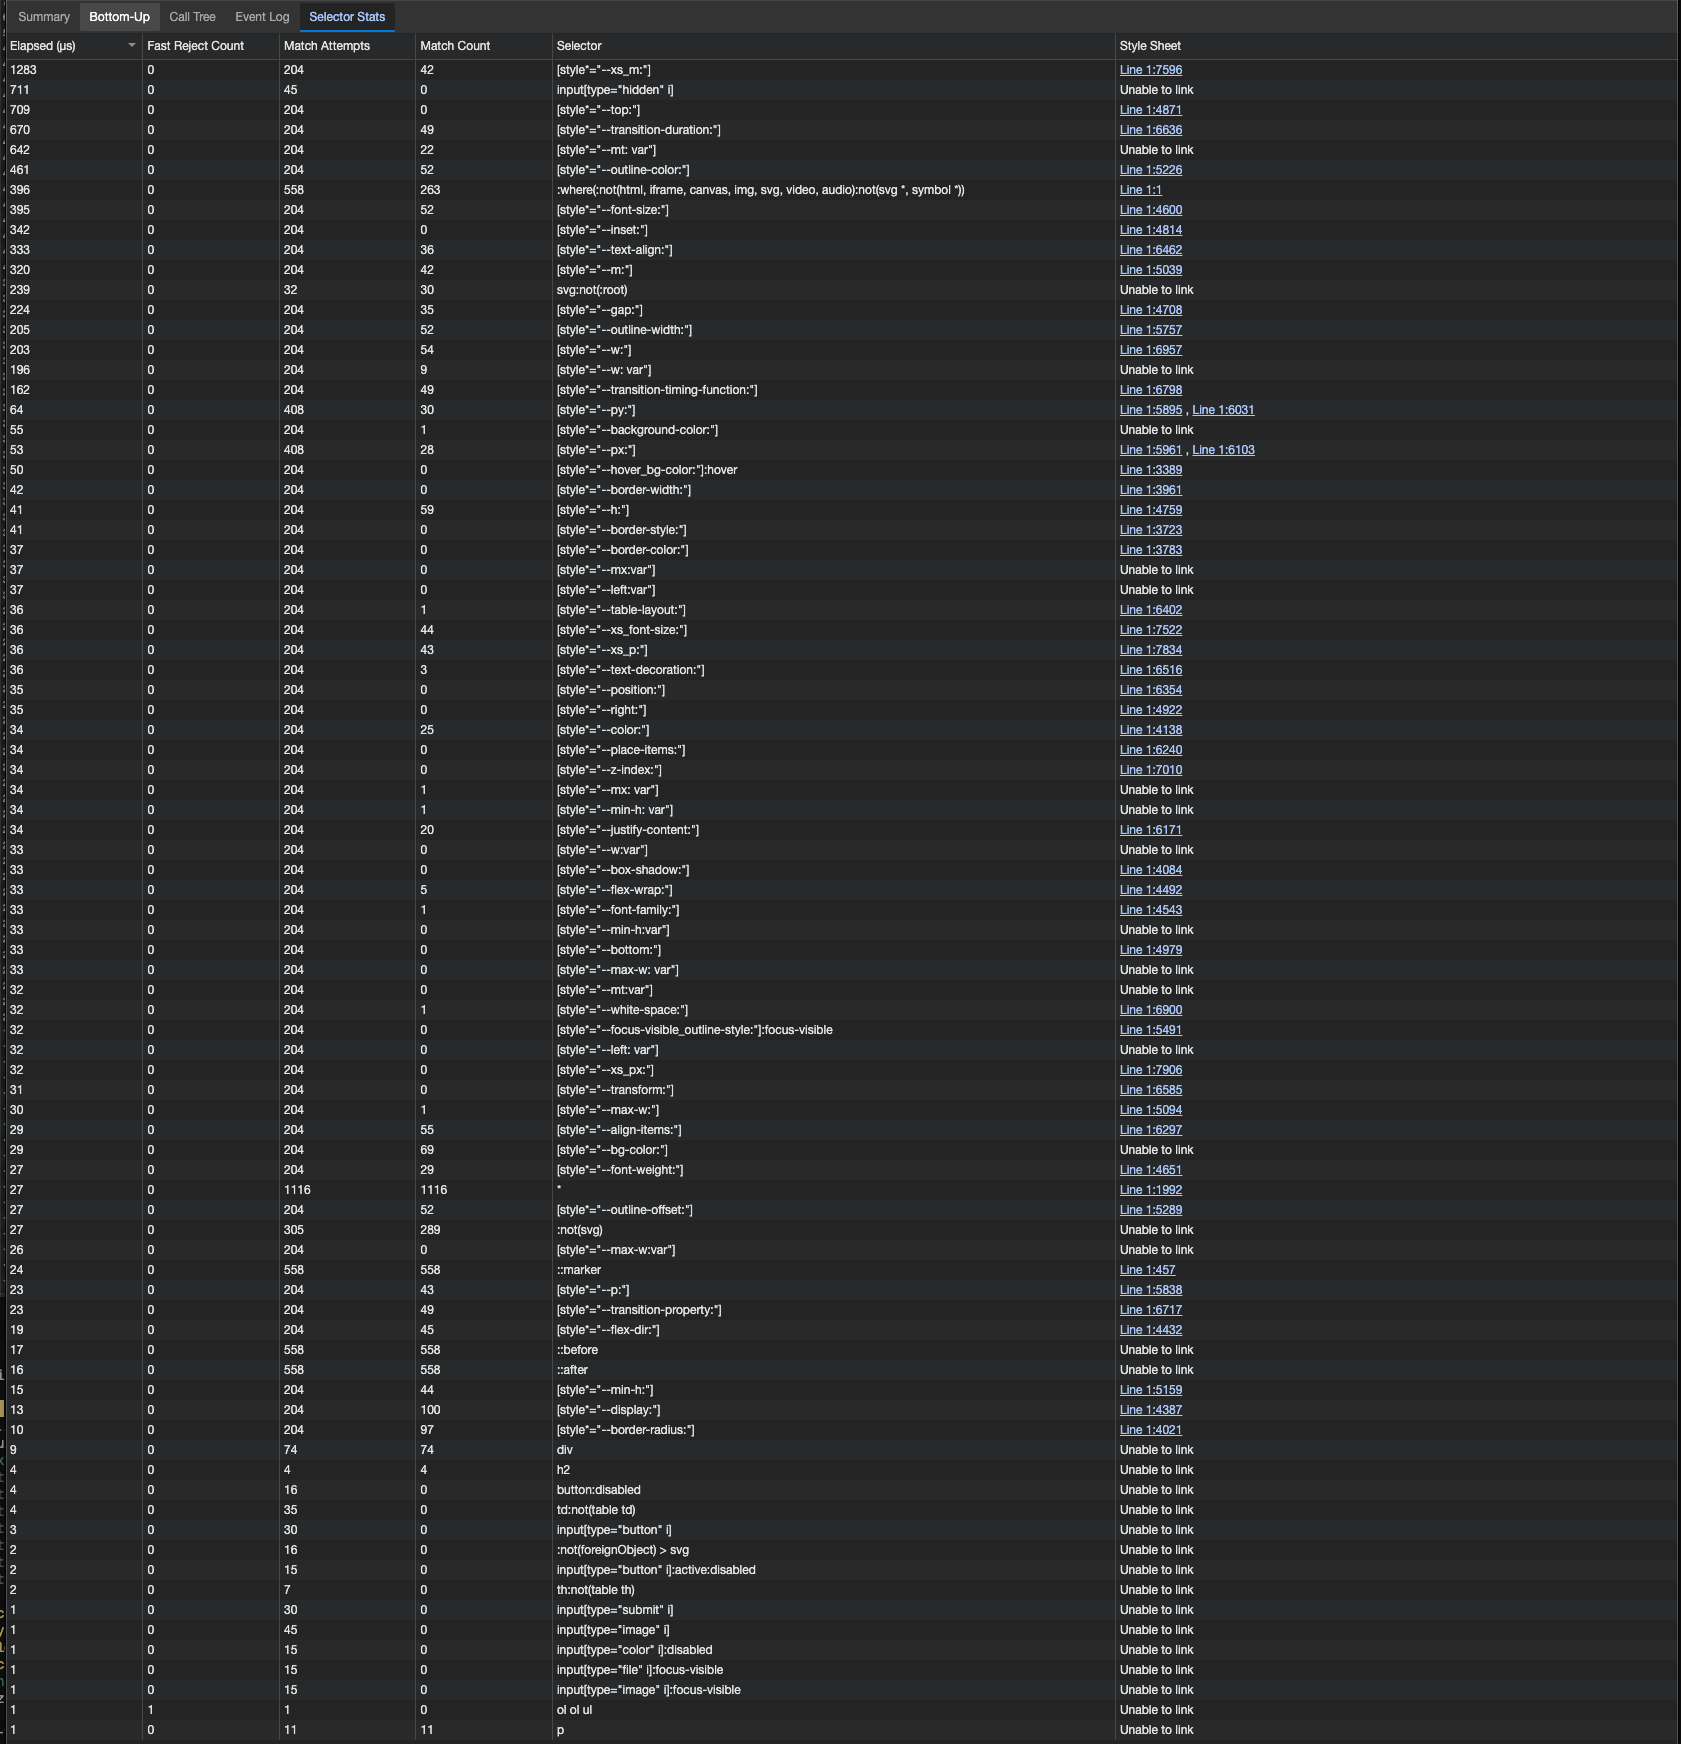
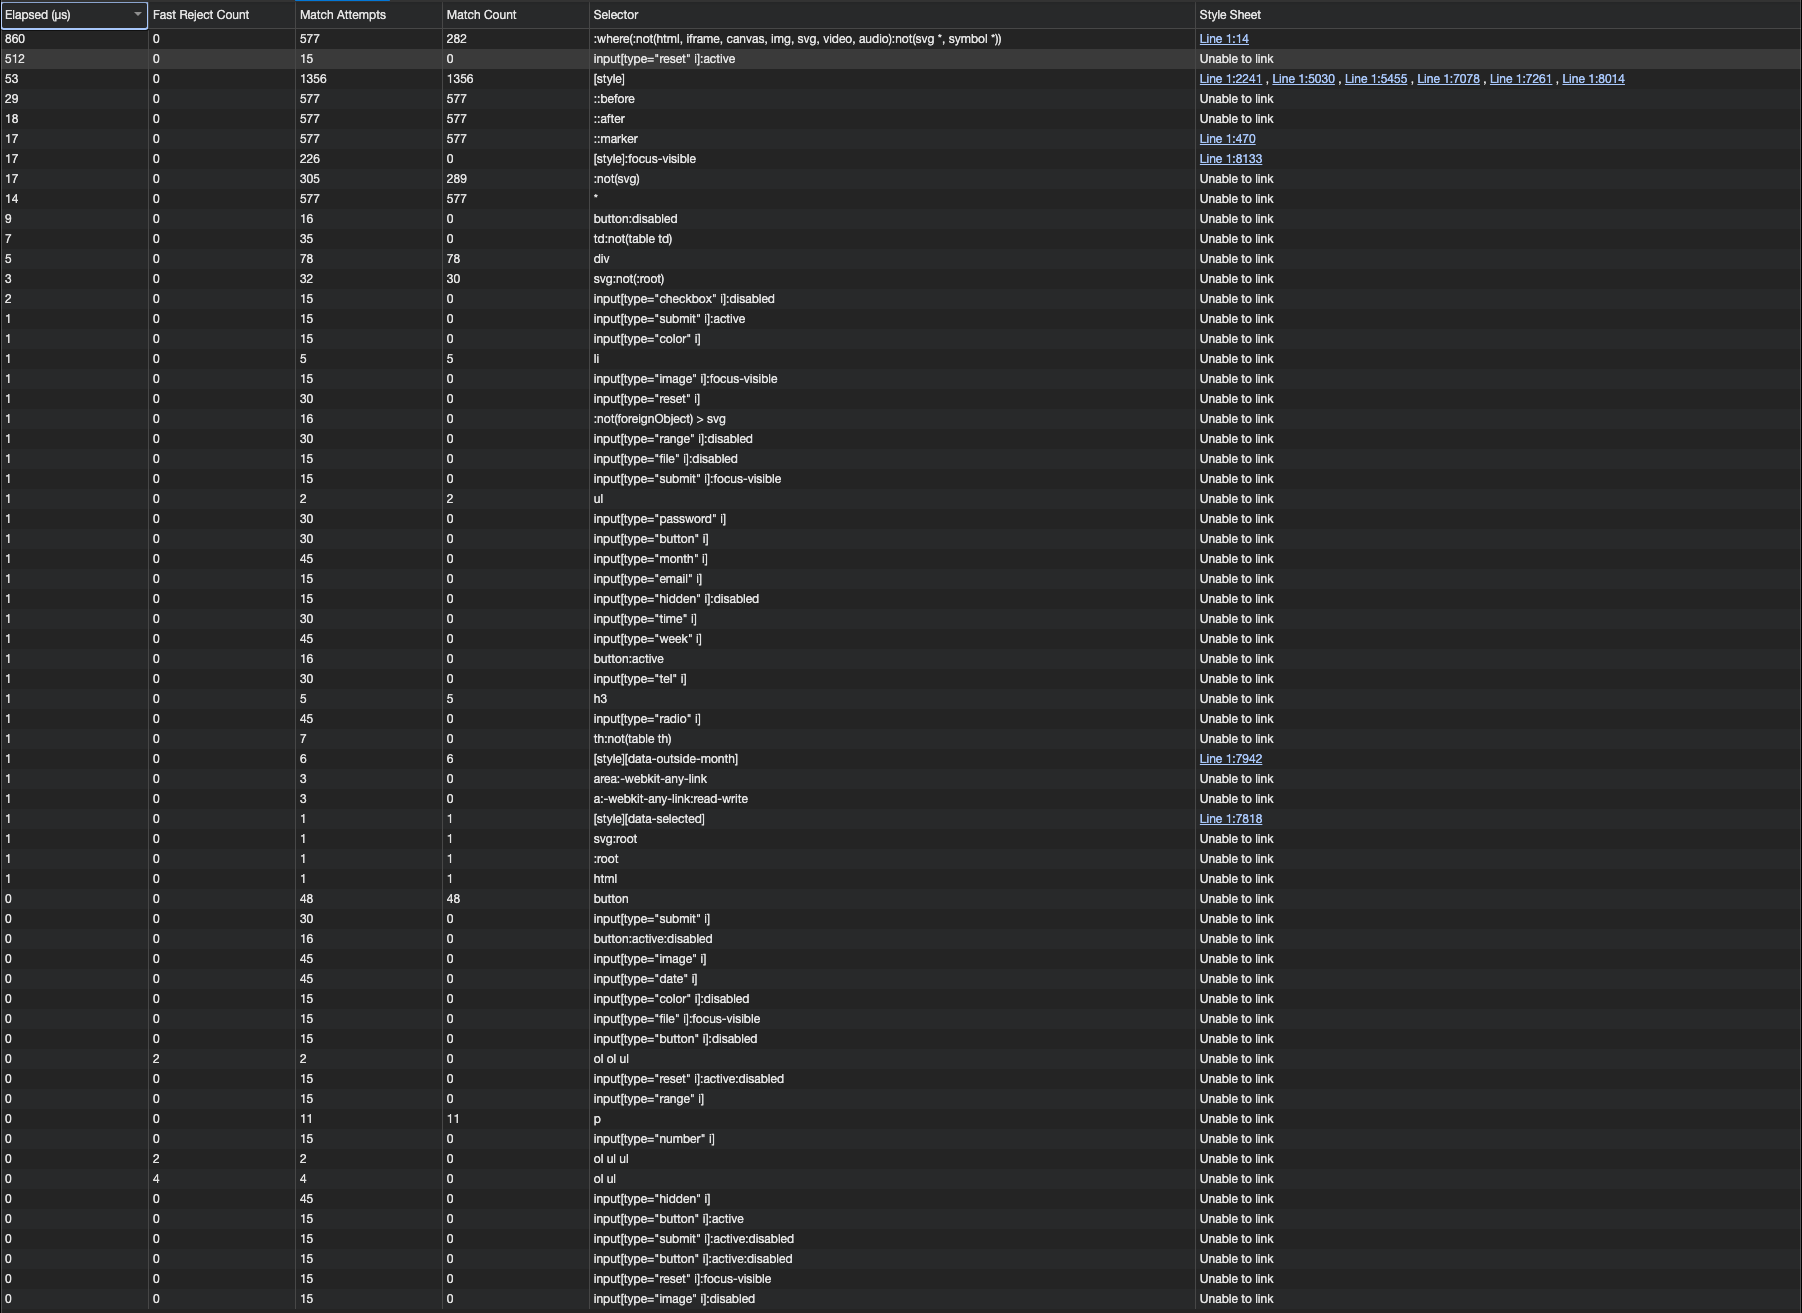
Update readme stuff to latest version

diff --git a/README.md b/README.md
@@ -9,17 +9,22 @@ This project is a playground app that I've built and styled with both [Tokenami]
 - [Tokenami version](https://planner-tokenami.vercel.app)
 - [TailwindCSS version](https://planner-tailwind.vercel.app)
 
+> [!IMPORTANT]  
+> Tokenami got some significant improvements since the first revision of this notes. I've updated it, feel free to check the history to see exact changes.
+
 ## What's Tokenami
 
-Tokenami is unconventional approach that allows direct styling with inline styles in a typesafe manner. In comparison to other similar approaches e.g. [CSSHooks](https://css-hooks.com) (which also allows direct styling with inline styles), Tokenami utilizes CSS variables and substring CSS selectors to deliver many powerful features, such as built-in theming, complex selectors and aliasing.
+Tokenami is unconventional approach that allows direct styling with inline styles in a typesafe manner. In comparison to other similar approaches e.g. [CSSHooks](https://css-hooks.com) (which also allows direct styling with inline styles), Tokenami utilizes CSS variables and cascade layers to deliver many powerful features, such as built-in theming, complex selectors and aliasing.
 
 It also comes with built-in utility for merging and composing styles. Moreover, it provides a TS plugin for even better TypeScript integration. I highly recommend giving a read about all of these libraries, especially in terms of trade-offs and design decisions.
 
 ## Why I've built this
 
-As mentioned before Tokenami is using unconventional approach with substring styles. However, substring selectors are (in)famously known for a worse performance than other, especially when compared to class selectors which are one of the most performant one.
+Tokenami started with utilizing unconventional approach with substring selectors. However, these are (in)famously known for a worse performance than other, especially when compared to class selectors which are one of the most performant one.
 
 Hence, I wanted to measure it, how much the performance tanks from using the substring selectors. Moreover, I've just wanted to play a bit with Tokenami to get a grasp whether it's something for me. A lot of thanks to Tokenami author [jjenzz](https://twitter.com/jjenzz) that helped a lot during my journey with Tokenami and was ultra fast with fixing bugs or brainstorming my improvement ideas!
+
+Since then a lot of experiments happened and even more unconventional approach emerged. Using `[style]` selector in combination of CSS layers allows you to basically recreate a standard CSS cascade in your own way. Moreover, the way the selectors like `hover` or `@media` rules work also got reworked . Now it uses space tricks with CSS variables, which got popularized by CSSHooks. It allows to e.g. switching all elements into focused state in the inspector.
 
 In a lot of points I'm focusing on a comparison to TailwindCSS. That's because that's my currently preferred styling approach which I wanted to somehow "benchmark" against the new kid on the block.
 
@@ -34,19 +39,21 @@ Styles are co-located with elements and don't need to be named, similarly to Tai
 Example of element styled by Tokenami from this project:
 
 ```tsx
+import { css } from "@tokenami/css";
+
 <header
-	style={{
+	style={css({
 		"--align-items": "center",
 		"--display": "flex",
 		"--justify-content": "space-between",
 		"--hover_background-color": "var(--color_red-900)",
-	}}
+	})}
 >
 	...
-</header>
+</header>;
 ```
 
-As you can see, standard properties are just prefixed with double `-` to make them CSS variables that Tokenami can use. Moreover, you can prefix them with selectors like `hover`.
+As you can see, standard properties are just prefixed with double `-` to make them CSS variables that Tokenami can use. Moreover, you can prefix them with selectors like `hover`. The other difference is the need to use the `css` utility, it allows few additional features and could be even more important in the future.
 
 ### Atomic stylesheet
 
@@ -57,14 +64,14 @@ Tbh, it's even more "atomic" then TailwindCSS - which generates CSS rules for ea
 Small part of stylesheet generated by Tokenami to give you a sense on how it's working:
 
 ```css
-[style*="--border-width\:"] {
-	border-width: var(--border-width);
-}
-[style*="--border-radius\:"] {
-	border-radius: var(--border-radius);
-}
-[style*="--box-shadow\:"] {
-	box-shadow: var(--box-shadow);
+@layer tk-short {
+	[style] {
+		border-style: var(--border-style, revert-layer);
+		border-color: var(--border-color, revert-layer);
+		border-width: var(--border-width, revert-layer);
+		border-radius: var(--border-radius, revert-layer);
+		gap: var(--gap, revert-layer);
+	}
 }
 ```
 
@@ -78,7 +85,7 @@ It also has a handy "grid" config, which allows you to specify some base value, 
 
 It's important to note that Tokenami doesn't come with a theme built-in though. From what I talked to author, there's a possibility of plugin system in the future which would allow to share and ship those. Then, a base theme could be distributed as a plugin.
 
-You can also configure other stuff, but overall the config is pretty straight-forward and minimal. One thing that I want to highlight is aliases. Let's say that writing "--background-color" each time can get tiring. You can easily alias it to e.g. `--bg-color` and use it across your project. You can see the specifics on how I configured Tokenami in this project in `.tokenami/tokenami.config.ts`
+You can also configure other stuff, but overall the config is pretty straight-forward and minimal. One thing that I want to highlight is aliases. Let's say that writing "--background-color" each time can get tiring. You can easily alias it to e.g. `--bg-color` and use it across your project. You can see the specifics on how I configured Tokenami in this project in `.tokenami/tokenami.config.ts`.
 
 ### Easy and seamless integration into your project
 
@@ -93,11 +100,13 @@ As you already could see in few of these examples, there's no specific functions
 Firstly, you can always move styles out of inline `style` attribute and reuse them across different elements:
 
 ```tsx
-const styles = {
+import { css } from "@tokenami/css";
+
+const styles = css({
 	"--color": "var(--color_red-900)",
 	"--background-color": "var(--color_red-100)",
 	"--padding": 4,
-};
+});
 
 const element1 = <div style={styles} />;
 const element2 = <div style={styles} />;
@@ -106,6 +115,8 @@ const element2 = <div style={styles} />;
 Even better, you can extract part of styles or compose them together:
 
 ```tsx
+import { css } from "@tokenami/css";
+
 const styles = {
 	"--color": "var(--color_red-900)",
 	"--background-color": "var(--color_red-100)",
@@ -119,35 +130,37 @@ const commonFocusStyles = {
 	"--outline-width": 0.5,
 };
 
-const element1 = <div style={{ ...styles, ...commonFocusStyles }} />;
+const element1 = <div style={css(styles, commonFocusStyles)} />;
 
 const { "--padding": _, ...baseStylesWithoutPadding } = styles;
 
-const element2 = <div style={{ ...baseStylesWithoutPadding, ...commonFocusStyles }} />;
+const element2 = <div style={css({ ...baseStylesWithoutPadding, ...commonFocusStyles })} />;
 ```
 
-Above pattern works fine with not overlapping set of styles, however there're some cases where we want to get predictable merging. That's when basically only TokenamiCSS specific API comes in:
+Moreover it's also capable of merging conflicting styles:
 
 ```tsx
 import { css } from "@tokenami/css";
 
-const styles = css({
+const styles = {
 	"--color": "var(--color_red-900)",
 	"--background-color": "var(--color_red-100)",
 	"--padding-left": 4,
-});
+};
 
 const conflictingStyles = {
 	"--padding": 8,
 };
 
-const element = <div style={styles(null, conflictingStyles)} />;
+const element = <div style={css(styles, conflictingStyles)} />;
 ```
 
-That looks sweet! It even properly knows that `--padding` is shorthand that sets `--padding-left` and will overwrite it. You can be only wondering "Why the null in `styles` invocation? 🤔" That's because the `css` function also acts as a tool for managing variants! Let's look at following example from my codebase (slightly simplified):
+That looks sweet! It even properly knows that `--padding` is shorthand that sets `--padding-left` and will overwrite it. Moreover the same `css` function also acts as a tool for managing variants! Let's look at following example from my codebase (slightly simplified):
 
 ```tsx
-const button = css(
+import { css } from "@tokenami/css";
+
+const button = css.compose(
 	{
 		"--border-radius": "var(--radii_base)",
 		"--color": "var(--color_white)",
@@ -185,14 +198,6 @@ const additionalStylesThatTakesPriority = {
 const exampleButtonMuted = <button style={button({ variant: "muted" }, additionalStylesThatTakesPriority)} />;
 ```
 
-One small note - because of this, the `css` base function can sometimes be cumbersome if you're using it only for merging (need to pass null all the time). It's something that the author is looking into solving, I've built a small utility in the meantime, which got a seal of approval:
-
-```tsx
-const emptyCss = css({});
-
-const mergeCss = (...styles: Array<TokenamiProperties | false | undefined>) => emptyCss(null, ...styles);
-```
-
 As you can see, the API that Tokenami provides is pretty minimal. However, it allows to use the flexibility of JavaScript to create super powerful patterns and compose styles in a way that's unmatched by TailwindCSS.
 
 ### TypeScript as a first-class citizen
@@ -227,7 +232,7 @@ Okay, but the sun isn't always shining 😄 There must be some tradeoffs for all
 
 ### Performance
 
-When I mean "performance" it relates to a few of things. Firstly, as I mentioned before, substring style selectors aren't the most performant ones. Are they slow? Are they worse than X? That all depends on what you want to compare them against. My contender was TailwindCSS and Tokenami is slower, you can't argue that. I don't want to say "it's fast enough" or "it's much slower", that probably all depends on your needs. I've put a few metrics in later part of this so you can make your own thoughts. It's also important to note, that my contender is kinda good in this category. If you're using something like runtime CSS-in-JS solution, it could be possible that Tokenami is much faster. As I mentioned before - if that's your concern, look at below metrics and make your own thoughts, I won't decide for you 😄
+When I mean "performance" it relates to a few of things. Firstly, the CSS selectors performance. Tokenami already improved a lot in this case since release, substring selectors got replaced by CSS layers and `[style]` selector. My contender is TailwindCSS and Tokenami is slower, you can't argue that. I don't want to say "it's fast enough" or "it's much slower", that probably all depends on your needs. I've put a few metrics in later part of this so you can make your own thoughts. It's also important to note, that my contender is kinda good in this category. If you're using something like runtime CSS-in-JS solution, it could be possible that Tokenami is much faster. As I mentioned before - if that's your concern, look at below metrics and make your own thoughts, I won't decide for you 😄
 
 It's also important to note that if you're using stuff like `cva` and `tw-merge` extensively in runtime, the performance hit from those could mitigate some of the gains from using TailwindCSS. Built-in `css` in Tokenami is much faster, because it doesn't need to utilize RegExes for deduplication and merging.
 
@@ -264,7 +269,7 @@ Okay, let's go to the part that's probably more spicey 😄 I'm not taking concl
 
 |                 | Tokenami | Tokenami gzip | TailwindCSS | TailwindCSS gzip |
 | --------------- | -------- | ------------- | ----------- | ---------------- |
-| Stylesheet size | 8.06 kB  | 2.22 kB       | 8.58 kB     | 2.73 kB          |
+| Stylesheet size | 8.17 kB  | 2.30 kB       | 8.58 kB     | 2.73 kB          |
 
 As you can see, Tokenami has smaller stylesheet size. The gap will probably grow with the size of the app (as mentioned before, Tokenami generates rules for every property, while TailwindCSS for every property + value combination). However, the difference shouldn't skyrocket or anything - both solutions use atomic rules.
 
@@ -272,16 +277,19 @@ As you can see, Tokenami has smaller stylesheet size. The gap will probably grow
 | ---------- | --------- | ------------- | ----------- | ---------------- |
 | JS(X) size | 540.33 kB | 169.85 kB     | 542.96 kB   | 171.79 kB        |
 
-This app is an SPA so HTML size is basically included in this one as JSX. This is influenced by styling solution in two ways - firstly, how terse are styles declarations, secondly - companion libraries. I'm usually using TailwindCSS in conjunction with CVA and tw-merge, Tokenami comes with a one built-in, so these are included here. Generally even if it looks like Tokenami is in the lead - it's important to note that that size is spread out differently. CVA + tw-merge for TailwindCSS is much bigger than Tokenami `css` utility. On the other hand, the styles declarations with Tokenami are bigger.
+> [!WARNING]  
+> This metric isn't up to date, but should reflect the difference anyway. I'll update it eventually.
+
+This app is an SPA so HTML size is basically included in this one as JSX. Don't be afraid by the big numbers, that's mainly caused by some hefty libraries that I choose in this project (unrelated to styling), both Tokenami and Tailwind doesn't incur too big JS cost. However, this is influenced by styling solution in two ways - firstly, how terse are styles declarations, secondly - companion libraries. I'm usually using TailwindCSS in conjunction with CVA and tw-merge, Tokenami comes with a one built-in, so these are included here. Generally even if it looks like Tokenami is in the lead - it's important to note that that size is spread out differently. CVA + tw-merge for TailwindCSS is much bigger than Tokenami `css` utility. On the other hand, the styles declarations with Tokenami are bigger.
 
 ### Timings **(paint + rendering only)**
 
 |                            | Tokenami | TailwindCSS |
 | -------------------------- | -------- | ----------- |
-| Interaction                | 22ms     | 24ms        |
-| Interaction, 4x slowdown   | 72ms     | 79ms        |
-| Initial Paint              | 43ms     | 20ms        |
-| Initial Paint, 4x slowdown | 170ms    | 92ms        |
+| Interaction                | 17ms     | 24ms        |
+| Interaction, 4x slowdown   | 69ms     | 79ms        |
+| Initial Paint              | 31ms     | 20ms        |
+| Initial Paint, 4x slowdown | 131ms    | 92ms        |
 
 As you can see, interactions timing are pretty similar, even slightly favouring Tokenami in my measurements. However, Initial Paint timings slumps a bit. "Interaction" is changing date on the calendar inside of the app and measuring how long does it take to update, it doesn't include the hovering part to mitigate human impact.
 
@@ -303,8 +311,8 @@ I've sorted them by how fast are they and in case of TailwindCSS not all were fi
 
 |                    | Tokenami | TailwindCSS |
 | ------------------ | -------- | ----------- |
-| Small, 6x slowdown | 0.7ms    | 8ms         |
-| Big, 6x slowdown   | 3ms      | 22ms        |
+| Small, 6x slowdown | 1.2ms    | 8ms         |
+| Big, 6x slowdown   | 7.8ms    | 22ms        |
 
 As mentioned before, I've setup both libraries with utilities for merging styles and managing variants. I'm aware the Tailwind one isn't as performant, because it uses RegExes for merging and deduplication. I've decided to create example scenarios and test them. You can see specific cases in `src/lib/benchmark.ts` in both projects.
 
@@ -314,7 +322,7 @@ As you can see, the difference is quite noticeable and can scale especially with
 
 |                          | Tokenami | TailwindCSS |
 | ------------------------ | -------- | ----------- |
-| Running `pnpm typecheck` | 17.2s    | 2.35s       |
+| Running `pnpm typecheck` | 15.9s    | 2.35s       |
 
 As mentioned before, the TypeScript performance takes a hit while using Tokenami. It's not really noticeable during normal usage (except of Tokenami properties intellisense), because of smart magic with TS plugin. However, it's really prominent while running the `tsc` e.g. during CI. It's also important to note that TailwindCSS classes aren't typechecked, these are just string, while with Tokenami you're getting typechecking for literally everything.
 
